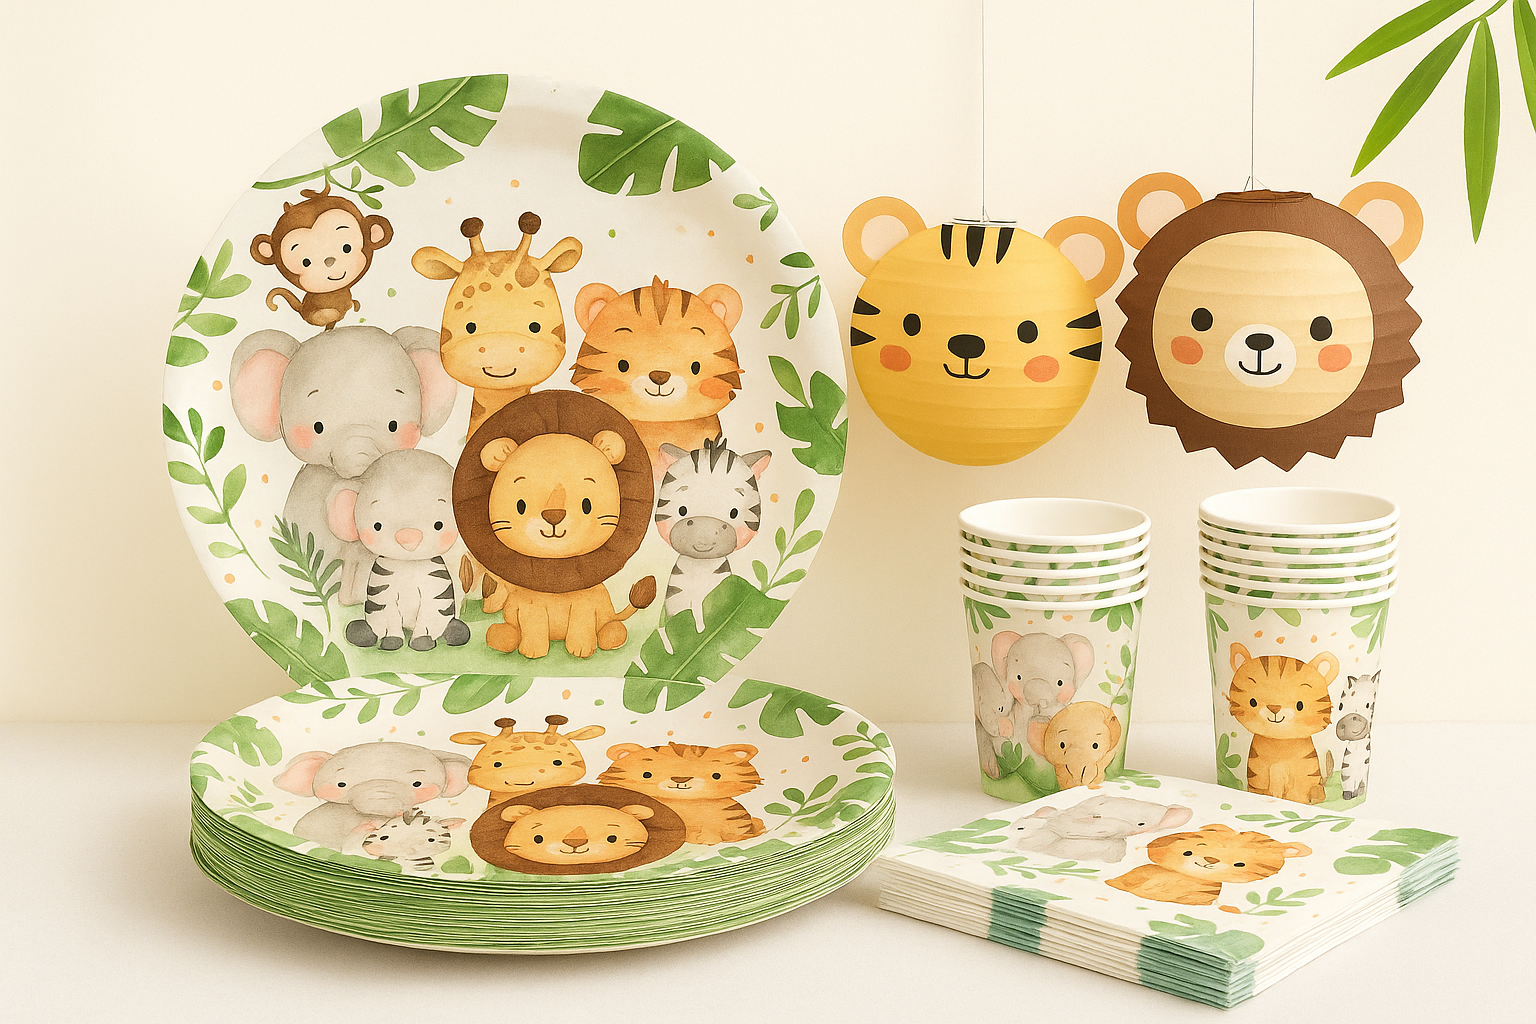
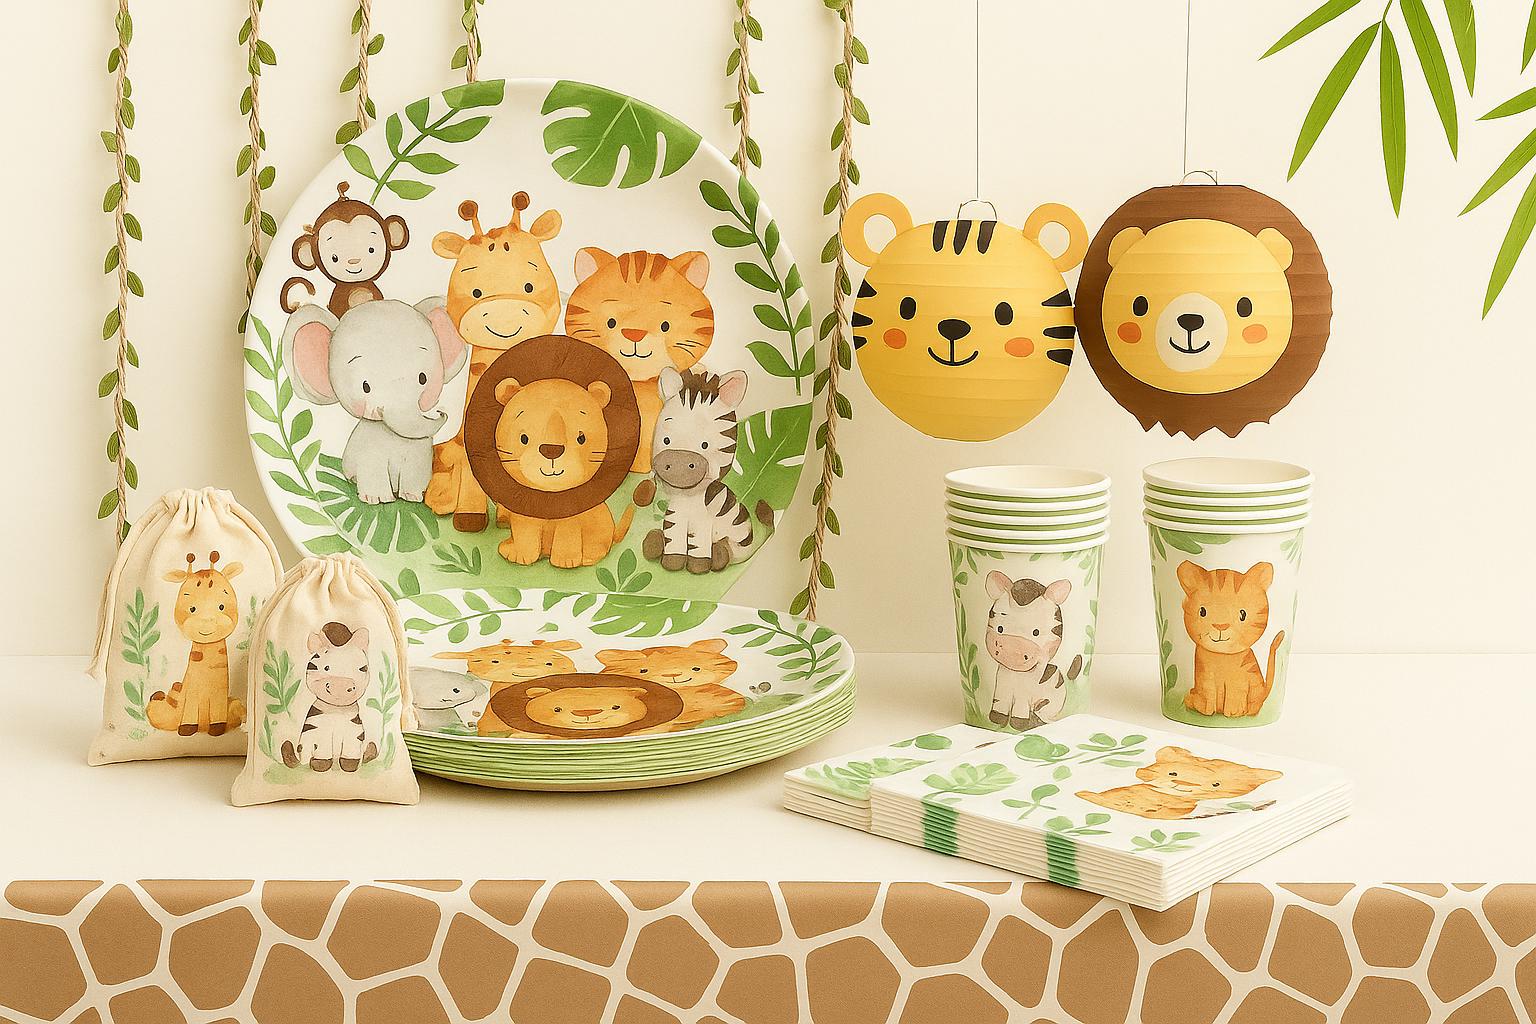
Actualizo portada e imágenes del combo Animales de la Selva

diff --git a/data/products.ts b/data/products.ts
@@ -10,11 +10,31 @@ export const products: ProductType[] = [
     price: 1299.99,
     mainImage: "/images/combo-animales-selva.png",
     additionalImages: [
-      "/placeholder.svg?height=200&width=300",
-      "/placeholder.svg?height=200&width=300",
-      "/placeholder.svg?height=200&width=300",
-      "/placeholder.svg?height=200&width=300",
+      "/images/animales/bolsa-de-souvenir---animales-en-la-selva-1.png",
+      "/images/animales/bolsa-de-souvenir---animales-en-la-selva-2.png",
+      "/images/animales/bolsa-de-souvenir---animales-en-la-selva-3.png",
+      "/images/animales/bolsa-de-souvenir---animales-en-la-selva-4.png",
+      "/images/animales/bolsa-de-souvenir---animales-en-la-selva-5.png",
+      "/images/animales/bolsa-de-souvenir---animales-en-la-selva.png",
+      "/images/animales/cuerda-con-hojas-artificiales-1.png",
+      "/images/animales/cuerda-con-hojas-artificiales-2.png",
+      "/images/animales/cuerda-con-hojas-artificiales.png",
+      "/images/animales/linterna-de-papel-colgante---ambiente-2.png",
+      "/images/animales/linterna-de-papel-colgante---ambiente-3.png",
+      "/images/animales/linterna-de-papel-colgante---ambiente.png",
+      "/images/animales/linterna-de-papel-colgante---león.png",
+      "/images/animales/linterna-de-papel-colgante---medidas.png",
+      "/images/animales/linterna-de-papel-colgante---montaje.png",
+      "/images/animales/linterna-de-papel-colgante---tigre.png",
+      "/images/animales/mantel-jirafa-2.png",
+      "/images/animales/mantel-jirafa.png",
+      "/images/animales/set-vajilla-animales-en-la-selva---platos.png",
+      "/images/animales/set-vajilla-animales-en-la-selva---servilletas.png",
+      "/images/animales/set-vajilla-animales-en-la-selva---vasos.png",
+      "/images/animales/set-vajilla-animales-en-la-selva-2.png",
+      "/images/animales/set-vajilla-animales-en-la-selva.png"
     ],
+    
     items: [
       "10 platos de cartón",
       "10 vasos de papel",
@@ -22,7 +42,7 @@ export const products: ProductType[] = [
       "10 gorros de fiesta",
       "1 mantel temático",
       "10 bolsas de regalo",
-      "20 globos surtidos",
+        "20 globos surtidos",
       "1 piñata de león",
     ],
     isNew: true,
@@ -45,11 +65,41 @@ export const products: ProductType[] = [
     price: 1499.99,
     mainImage: "/images/portada-sirenita-encantada.png",
     additionalImages: [
-      "/images/globo-cola-sirena.png",
-      "/images/globo-estrella.png",
-      "/images/globo-concha.png",
-      "/placeholder.svg?height=200&width=300",
+      "/images/sirena/bolsa-sorpresita-sirena-2.jpg",
+      "/images/sirena/bolsa-sorpresita-sirena-medidas.jpg",
+      "/images/sirena/bolsa-sorpresita-sirena.jpg",
+      "/images/sirena/broche-pelo-sirena-1-a.webp",
+      "/images/sirena/broche-pelo-sirena-1-b.webp",
+      "/images/sirena/broche-pelo-sirena-1-c.png",
+      "/images/sirena/broche-pelo-sirena-1.png",
+      "/images/sirena/cortina-sirena-2.jpg",
+      "/images/sirena/cortina-sirena-medidas.jpg",
+      "/images/sirena/cortina-sirena.jpg",
+      "/images/sirena/guirnalda-sirena-estrella-de-mar-medidas.jpg",
+      "/images/sirena/guirnalda-sirena-estrella-de-mar.jpg",
+      "/images/sirena/joyeria-sirena-2.jpg",
+      "/images/sirena/joyeria-sirena-3.jpg",
+      "/images/sirena/joyeria-sirena-medidas.jpg",
+      "/images/sirena/joyeria-sirena.jpg",
+      "/images/sirena/mantel-de-sirena--2.jpg",
+      "/images/sirena/mantel-de-sirena-medidas.jpg",
+      "/images/sirena/mantel-de-sirena.jpg",
+      "/images/sirena/mono-pelo-sirena-nena.jpg",
+      "/images/sirena/moño-pelo-sirena.jpg",
+      "/images/sirena/pack-de-globos-sirena-2.jpg",
+      "/images/sirena/pack-de-globos-sirena-medidas.jpg",
+      "/images/sirena/pack-de-globos-sirena.jpg",
+      "/images/sirena/set-papeleria-sirena-2.jpg",
+      "/images/sirena/set-papeleria-sirena-medidas.jpg",
+      "/images/sirena/set-papeleria-sirena-plato-2.jpg",
+      "/images/sirena/set-papeleria-sirena-plato.jpg",
+      "/images/sirena/set-papeleria-sirena-servilletas.jpg",
+      "/images/sirena/set-papeleria-sirena-vasos.jpg",
+      "/images/sirena/set-papeleria-sirena.jpg",
+      "/images/sirena/vincha-sirena-purpura-2.jpg",
+      "/images/sirena/vincha-sirena-purpura.jpg"
     ],
+    
     items: [
       "10 platos con diseño marino",
       "10 vasos decorados",
